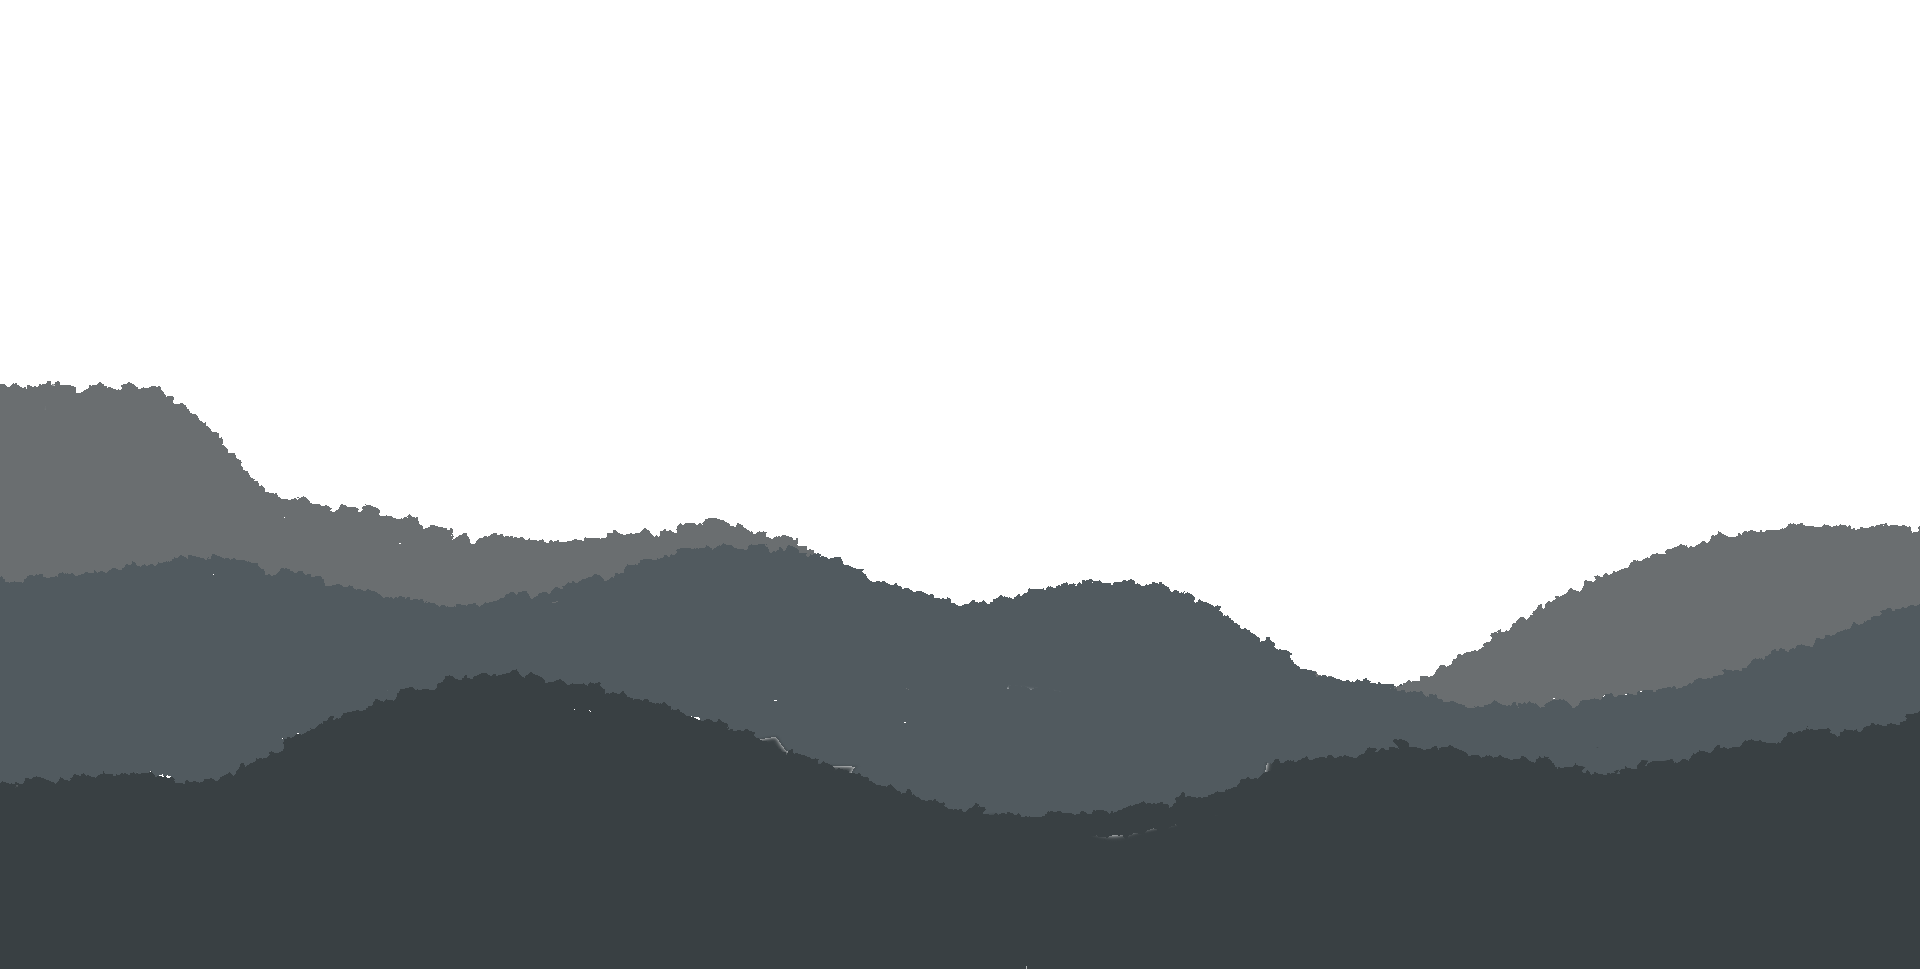
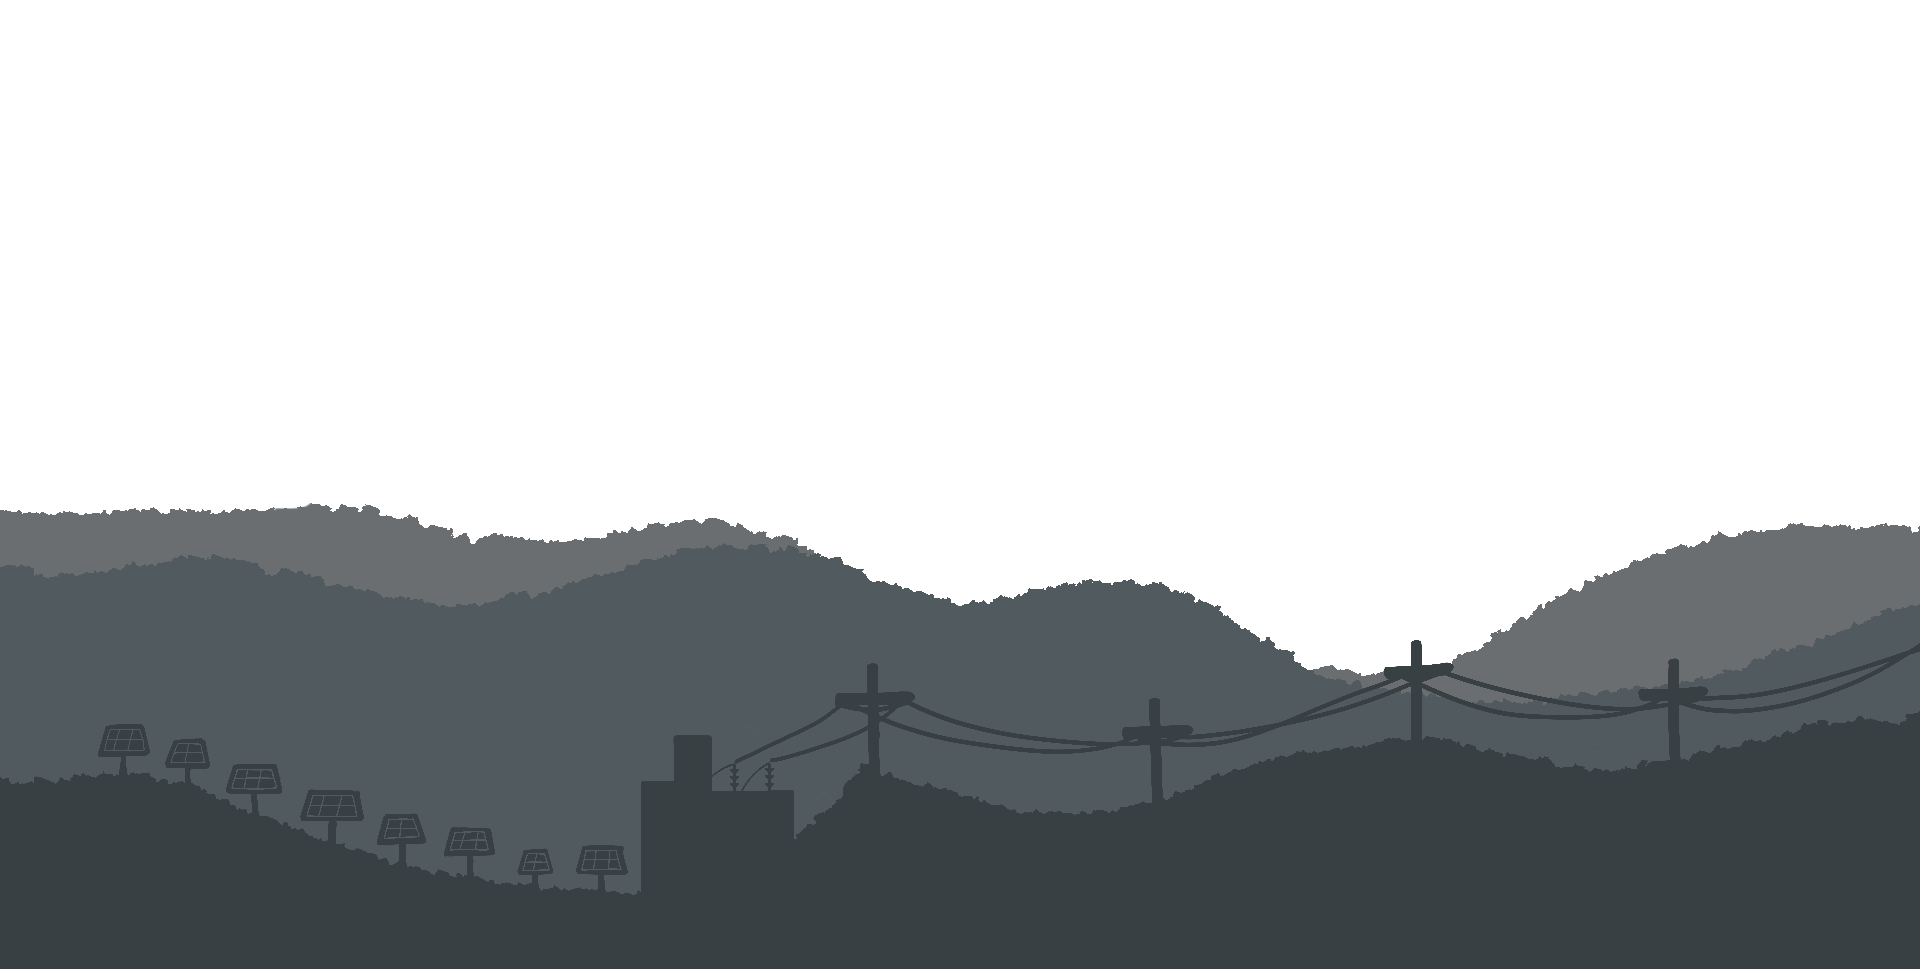
klesenza

diff --git a/index.html b/index.html
@@ -24,7 +24,7 @@
         <div class="wrapper">
             <section class="slide one">
                 <img id="windmill" src="img/animations/windmill.png">
-                <img id="kite" src="img/animations/kitetest.png">
+                <img id="kite" src="img/animations/kite.png">
                 <div class="heading">
                     <h1 id="page-title">
                         <span style="--i:1">L</span>
@@ -124,42 +124,27 @@
                             style="--i:49">E</span><span style="--i:50">N</span>
                     </h1>
                     <div class="cards">
-                        <canvas id="chart" width="400" height="400"></canvas>
-                        <script src="https://cdnjs.cloudflare.com/ajax/libs/Chart.js/2.4.0/Chart.min.js"></script>
-                        <script src="chart.js"></script>
-                    </div>
-                </div>
-
-                <div class="projekte">
-                    <h1 id="wavy-heading">
-                        <span style="--i:51">P</span><span style="--i:52">R</span><span style="--i:53">O</span><span
-                            style="--i:54">J</span><span style="--i:55">E</span><span style="--i:56">K</span><span
-                            style="--i:57">T</span><span style="--i:58">E</span>
-                    </h1>
-                    <div class="cards">
                         <div class="tabs">
-                            <button class="btnTabs" onclick="openProject('Klesenza')">Klesenza</button>
-                            <button class="btnTabs" onclick="openProject('Bachmix')">Bachmix</button>
+                            <button class="btnTabs" onclick="openTab('first')">1. LJ</button>
+                            <button class="btnTabs" onclick="openTab('second')">2. LJ</button>
+                            <button class="btnTabs" onclick="openTab('third')">3. LJ</button>
+                            <button class="btnTabs" onclick="openTab('fourth')">4. LJ</button>
                         </div>
-                        <div class="projekt" id="Klesenza">
-                            <h3>Klesenza</h3>
-                            <ul>
-                                <li>State-Machine</li>
-                                <li>Düsenregler</li>
-                                <li>Turbinenregler</li>
-                                <li>Alarm</li>
-                            </ul>
+                        <div class="abteil" id="first">
+                            <img src="img/kl/first.png">
                         </div>
-                        <div class="projekt" id="Bachmix"  style="display: none;">
-                            <h2>Bachmix</h2>
-                            <img src="img/bachmix.jpg" width="400px">
+                        <div class="abteil" id="second" style="display: none;">
+                            <img src="img/kl/second.png">
                         </div>
-                        
+                        <div class="abteil" id="third" style="display: none;">
+                            <img src="img/kl/third.png">
+                        </div>
+                        <div class="abteil" id="fourth" style="display: none;">
+                            <img src="img/kl/fourth.png">
+
+                        </div>
                     </div>
                 </div>
-            </section>
-
-            <section class="slide four">
                 <div class="kenntnisse">
                     <h1 id="wavy-heading">
                         <span style="--i:59">K</span><span style="--i:60">E</span><span style="--i:61">N</span><span
@@ -176,6 +161,60 @@
                         </div>
                     </div>
                 </div>
+               
+            </section>
+
+            <section class="slide four">
+                <div class="projekte">
+                    <h1 id="wavy-heading">
+                        <span style="--i:51">P</span><span style="--i:52">R</span><span style="--i:53">O</span><span
+                            style="--i:54">J</span><span style="--i:55">E</span><span style="--i:56">K</span><span
+                            style="--i:57">T</span><span style="--i:58">E</span>
+                    </h1>
+                    <div class="cards">
+                        <div class="tabs">
+                            <button class="btnTabs" onclick="openProject('Klesenza')">Klesenza</button>
+                            <button class="btnTabs" onclick="openProject('Bachmix')">Bachmix</button>
+                        </div>
+                        <div class="projekt" id="Klesenza">
+                            <h3>Klesenza</h3>
+                            <div class="slideshow-container">
+
+                                <div class="start mySlides fade">
+                                  <img class="klesenza" src="img/klesenza/klesenza.jpg">
+                                </div>
+                                <div class="mySlides fade">
+                                    <ul>
+                                        <li>State-Machine</li>
+                                        <li>Düsenregler</li>
+                                        <li>Turbinenregler</li>
+                                        <li>Alarm</li>
+                                    </ul>                                  
+                                </div>
+                                <div class="mySlides fade">
+                                  <img class="klesenza" src="img/klesenza/klesenza-innen.jpg">
+                                </div>
+
+                                <div class="mySlides fade">
+                                    <img class="klesenza" src="img/klesenza/pelton.jpg">
+                                  </div>
+
+
+                                <a class="prev" onclick="plusSlides(-1)">❮</a>
+                                <a class="next" onclick="plusSlides(1)">❯</a>
+                                
+                                </div>
+                                <br>
+                            
+                        </div>
+                        <div class="projekt" id="Bachmix"  style="display: none;">
+                            <h2>Bachmix</h2>
+                            <img class="bachmix" src="img/bachmix.jpg">
+                        </div>
+                        
+                    </div>
+                </div>
+                
             </section>
             <section class="slide five">   
                 <div class="leistungen">

diff --git a/styles.css b/styles.css
@@ -65,7 +65,7 @@ body {
 /*BACKGROUND START                                                 */
 /*******************************************************************/
 .one {
-  background-image: url("img/bg/background.png");
+  background-image: url("img/bg/slide-1.png");
   background-repeat:no-repeat;
 }
 
@@ -79,7 +79,7 @@ body {
 }
 
 .three {
-  background-image: url("img/bg/slide-mountains.png");
+  background-image: url("img/bg/slide-3.png");
   display: flex;
   flex-direction: row;
   align-items: center;
@@ -102,19 +102,9 @@ body {
   justify-content: space-around;
 }
 
-/*
-.five{
-  background-image: url("img/all\ -\ Kopie.png");
-  background-repeat: no-repeat;
-  display: flex;
-  flex-direction: row;
-  align-items: center;
-  justify-content: space-around; 
-}*/
 /*******************************************************************/
 /*BACKGROUND END                                                   */
 /*******************************************************************/
-
 
 
 /*******************************************************************/
@@ -123,7 +113,7 @@ body {
 span {
   position: relative;
   display: inline-block;
-  animation: wave 5s infinite;
+  animation: wave 4.5s infinite;
   animation-delay: calc(.18s * var(--i));
 }
 @keyframes wave {
@@ -336,6 +326,8 @@ ul{
   font-size: 2.1vw;
   max-height: 80vw;
   max-width: 80vw;
+  min-width: 30vw;
+
   padding: 5px;
   background-color: #7c868b;
   border-radius: 32px;
@@ -354,15 +346,25 @@ ul{
 /*******************************************************************/
 .projekte{
   font-size: 2.1vw;
-  max-height: 80vw;
-  max-width: 80vw;
-  min-width: 30vw;
+  max-height: 47vw;
+  min-width: 52vw;
   padding: 5px;
   background-color: #7c868b;
   border-radius: 32px;
   border: 5px solid #000;
   text-align: center;
   letter-spacing: 1.5px;
+}
+#Klesenza{
+  max-height: 36vw;
+}
+.klesenza{
+  height: 600px;
+  border-radius: 16px;
+}
+.bachmix{
+  height: 580px;
+  border-radius: 16px;
 }
 .btnTabs{
   padding: 5px 15px 5px 15px;
@@ -396,8 +398,8 @@ ul{
   letter-spacing: 1.5px;
 }
 .grid img{
-  width: 200px;
-  height: 200px;
+  width: 150px;
+  height: 150px;
 }
 
 .zukunft{
@@ -453,8 +455,8 @@ ul{
 
 #kite {
     position: absolute;
-    left: 17.8%;
-    top: -1%;
+    left: 17.81%;
+    top: 0%;
     
 
     animation: tilt 2.5s infinite linear alternate;
@@ -556,3 +558,54 @@ ul{
       display: none;
     }
   }
+
+  .mySlides {display: none}
+  .start{display:block}
+
+  .slideshow-container {
+    max-width: 1000px;
+    position: relative;
+    margin: auto;
+  }
+  /* Next & previous buttons */
+.prev, .next {
+  cursor: pointer;
+  position: absolute;
+  top: 50%;
+  width: auto;
+  padding: 16px;
+  margin-top: -22px;
+  color: white;
+  font-weight: bold;
+  font-size: 25px;
+  transition: 0.6s ease;
+  border-radius: 0 3px 3px 0;
+  user-select: none;
+}
+.next {
+  right: 0;
+  border-radius: 3px 0 0 3px;
+}
+.prev {
+  left: 0;
+}
+
+/* On hover, add a black background color with a little bit see-through */
+.prev:hover, .next:hover {
+  background-color: rgba(0,0,0,0.8);
+}
+
+.active{
+  background-color: #717171;
+}
+
+/* Fading animation */
+.fade {
+  animation-name: fade;
+  animation-duration: 1.5s;
+}
+
+@keyframes fade {
+  from {opacity: .4} 
+  to {opacity: 1}
+}

diff --git a/script.js b/script.js
@@ -6,3 +6,34 @@ function openProject(projectName) {
   }
   document.getElementById(projectName).style.display = "block";
 }
+
+function openTab(year) {
+  var i;
+  var x = document.getElementsByClassName("abteil");
+  for (i = 0; i < x.length; i++) {
+    x[i].style.display = "none";
+  }
+  document.getElementById(year).style.display = "block";
+}
+
+let slideIndex = 1;
+showSlides(slideIndex);
+
+function plusSlides(n) {
+  showSlides(slideIndex += n);
+}
+
+function currentSlide(n) {
+  showSlides(slideIndex = n);
+}
+
+function showSlides(n) {
+  let i;
+  let slides = document.getElementsByClassName("mySlides");
+  if (n > slides.length) {slideIndex = 1}    
+  if (n < 1) {slideIndex = slides.length}
+  for (i = 0; i < slides.length; i++) {
+    slides[i].style.display = "none";  
+  }
+  slides[slideIndex-1].style.display = "block";  
+}

diff --git a/chart.js b/chart.js
@@ -19,7 +19,7 @@ var chart = new Chart(chartObject, {
             xAxes: [{
                 ticks: {
                     fontColor: "white",
-                    fontSize: 15
+                    fontSize: 16
                 }
             }],
             yAxes: [{
